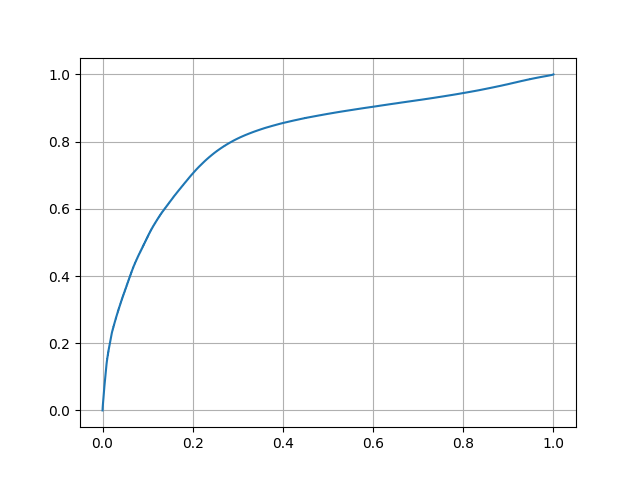
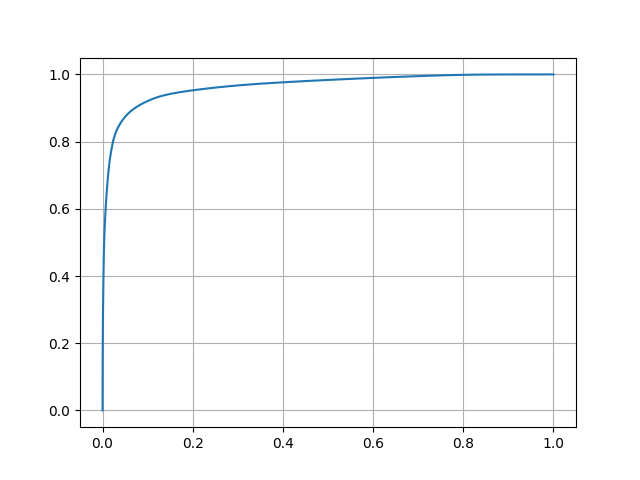
ARMA conv

diff --git a/models/gcn.py b/models/gcn.py
@@ -1,3 +1,4 @@
+import torch
 import torch.nn as nn
 import torch_geometric.nn as gnn
 
@@ -9,33 +10,48 @@ class GCN(nn.Module):
         n_heads = conf["model"]["n_heads"]
         dropout = conf["model"]["dropout"]
         n_layers = conf["model"]["n_layers"]
+        n_stacks = conf["model"]["n_stacks"]
+        n_iters = conf["model"]["n_iters"]
         self.n_buses = conf["data"]["n_buses"]
         self.n_outputs = n_outputs
+
         self.gnns = nn.ModuleList()
         for i in range(n_layers):
-            # if i < n_layers - 1:
-            #     concat = True
-            # else:
-            #     concat = dense
-            self.gnns.append(gnn.GATConv(n_inputs if i == 0 else hidden_size * n_heads,
-                                         hidden_size,
-                                         n_heads, dropout=dropout))
-        self.pinn_conv = gnn.GATConv(hidden_size * n_heads, n_outputs, n_heads, concat=False, dropout=dropout)
-        self.localize_conv = gnn.GATConv(hidden_size * n_heads, hidden_size, n_heads, concat=False, dropout=dropout)
+            self.gnns.append(gnn.ARMAConv(n_inputs if i == 0 else hidden_size,
+                                         hidden_size, n_stacks, n_iters, dropout=dropout))
+        
+        self.pinn_conv = nn.ModuleList()
+        for i in range(n_layers):
+            self.pinn_conv.append(gnn.ARMAConv(hidden_size, hidden_size if i < n_layers - 1 else n_outputs, 
+                                              n_stacks, n_iters, dropout=dropout))
+            
+        self.localize_conv = nn.ModuleList()
+        for i in range(n_layers):
+            self.localize_conv.append(gnn.ARMAConv(hidden_size, hidden_size,
+                                                   n_stacks, n_iters, dropout=dropout))
         self.classify = nn.Linear(hidden_size * self.n_buses, 2 * self.n_buses)
 
     def forward(self, data):
         x = data.x
         edge_index = data.edge_index
         edge_attr = data.edge_attr
+        edge_weights = torch.abs(data.edge_attr[:, 0])
 
         for i, layer in enumerate(self.gnns):
-            x = layer(x, edge_index, edge_attr)
+            x = layer(x, edge_index, edge_weights)
             x = x.relu()
+        
+        pinn_output = x
+        for i, layer in enumerate(self.pinn_conv):
+            pinn_output = layer(pinn_output, edge_index, edge_weights)
+            if i < len(self.pinn_conv) - 1:
+                pinn_output = pinn_output.relu()
 
-        pinn_output = self.pinn_conv(x, edge_index, edge_attr)
-        localization_outut = self.localize_conv(x, edge_index, edge_attr)
-        localization_outut = localization_outut.relu()
+        localization_outut = x
+        for i, layer in enumerate(self.localize_conv):
+            localization_outut = layer(localization_outut, edge_index, edge_weights)
+            localization_outut = localization_outut.relu()
+
         localization_outut = localization_outut.view(len(data), -1)
         localization_outut = self.classify(localization_outut)
         return pinn_output, localization_outut

diff --git a/run.py b/run.py
@@ -55,6 +55,8 @@ def train_localize(config: dict=None):
         conf["model"]["n_heads"] = config.get("n_heads", conf["model"]["n_heads"])
         conf["model"]["hidden_size"] = config.get("size", conf["model"]["hidden_size"])
         conf["model"]["n_layers"] = config.get("n_layers", conf["model"]["n_layers"])
+        conf["model"]["n_iters"] = config.get("n_iters", conf["model"]["n_iters"])
+        conf["model"]["n_stacks"] = config.get("n_stacks", conf["model"]["n_stacks"])
         conf["train"]["lr"] = config["lr"]
         conf["train"]["regularization"] = config["regularization"]
     # pinn_model = load_pinn()
@@ -125,9 +127,11 @@ def hyperparameter_optimize():
 
     if not population_training:
         config.update({
-            "n_heads": tune.choice([i for i in range(2, 9)]),
+            "n_stacks": tune.choice([2, 3, 4]),
+            # "n_heads": tune.choice([i for i in range(2, 9)]),
             "size": tune.choice([2 ** i for i in range(4, 8)]),
-            "n_layers": tune.choice([i for i in range(2, 8)])
+            "n_layers": tune.choice([i for i in range(2, 8)]),
+            "n_iters": tune.choice([2, 3, 4, 5])
         })
     if not population_training:
         scheduler = ASHAScheduler(

diff --git a/training/localization_trainer.py b/training/localization_trainer.py
@@ -36,7 +36,7 @@ class LocalizationTrainer:
     def _init_ddp(self, rank, datasets, shuffles):
         if not ray.is_initialized():
             os.environ['MASTER_ADDR'] = '127.0.0.1'
-            os.environ['MASTER_PORT'] = '29501'
+            os.environ['MASTER_PORT'] = '29500'
             if self.conf["train"]["cuda"]:
                 backend = "nccl"
             else:
@@ -68,10 +68,6 @@ class LocalizationTrainer:
     def train(self, rank, train_dataset, val_dataset):
         start_epoch = 0
         best_loss = torch.inf
-        if not path.exists(self.pinn_model_path):
-            if rank == 0:
-                print("PINN model does not exist")
-            return
 
         optim = torch.optim.Adam(self.localize_model.parameters(), 
                                  lr=self.conf["train"]["lr"],

diff --git a/datasets/grid_graph_dataset.py b/datasets/grid_graph_dataset.py
@@ -34,9 +34,6 @@ class GridGraphDataset(InMemoryDataset):
             self.load(self.processed_paths[0])
         else:
             self.load(self.processed_paths[1])
-
-    def __len__(self):
-        return len(self.features)
     
     def _per_unit(self):
         for bus in range(self.n_buses):
